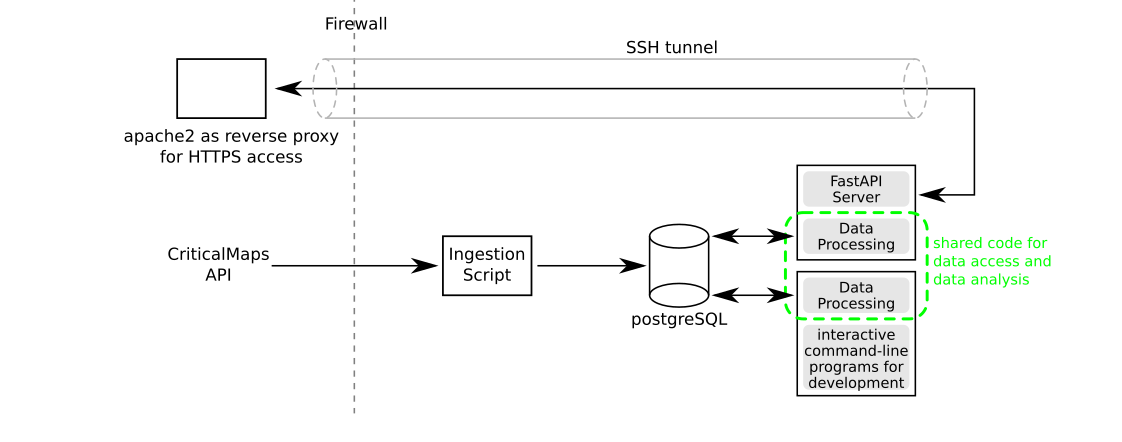
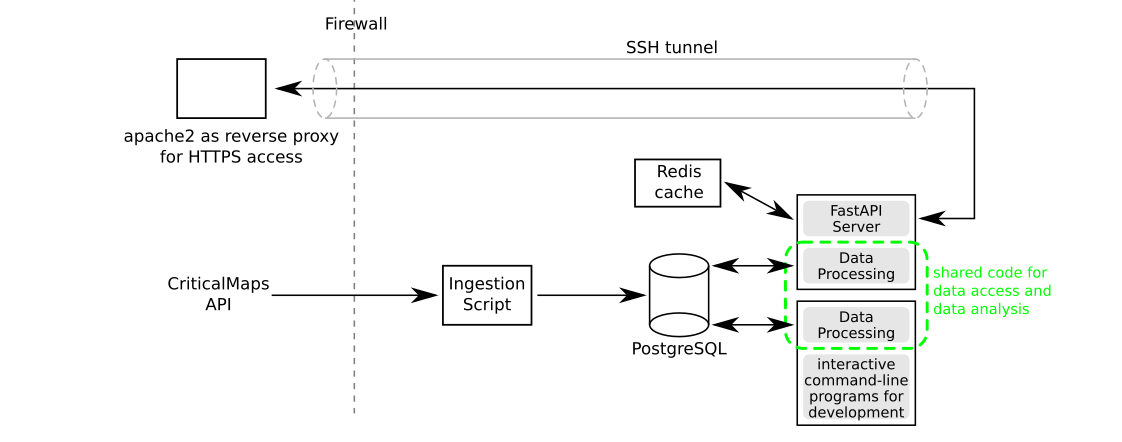
docs: update

Changed region(s): [[0.156, 0.3529, 0.9358, 0.9706], [0.5927, 0.6176, 0.6239, 0.6471]]

diff --git a/README.md b/README.md
@@ -54,9 +54,10 @@ A reasonable starting point for selecting parameters could be
 ### Technologies used
 - OS: Ubuntu Server 24.04 LTS
 - Docker
-- PostgreSQL v18
 - Python 3.10 or newer
   - notable packages used: FastAPI, scikit-learn, psycopg, pytest
+- PostgreSQL v18
+- Redis
 - Test automatization using GitHub Actions, see [here](#cicd) for more information
 - The [web client](https://github.com/christoph-lechner/critical-dir-map) is implemented using HTML, JavaScript, and [Leaflet](https://leafletjs.com/)
 